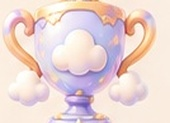
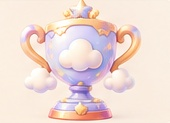
Add files via upload

diff --git a/homologacao/rc266-trofeus-sem-crop.js b/homologacao/rc266-trofeus-sem-crop.js
@@ -1,0 +1,30 @@
+/* BERTH.A RC266 — only Trophy/Super Trophy fit correction */
+(function(){
+ if(document.getElementById('rc266-trophy-fit')) return;
+ const s=document.createElement('style'); s.id='rc266-trophy-fit';
+ s.textContent=`
+ .rc258-trail .r197-step:nth-child(4),
+ .rc258-trail .r197-step:nth-child(5){
+   min-width:0!important; overflow:visible!important;
+ }
+ .rc258-trail .r197-step:nth-child(4) .rc258-reward-art,
+ .rc258-trail .r197-step:nth-child(5) .rc258-reward-art{
+   width:100%!important; max-width:88px!important; aspect-ratio:1/1!important;
+   margin:0 auto 6px!important; overflow:hidden!important;
+   transform:none!important; position:static!important;
+   box-sizing:border-box!important; border-radius:15px!important;
+ }
+ .rc258-trail .r197-step:nth-child(4) .rc258-reward-art img,
+ .rc258-trail .r197-step:nth-child(5) .rc258-reward-art img{
+   display:block!important; width:100%!important; height:100%!important;
+   max-width:100%!important; max-height:100%!important;
+   object-fit:contain!important; object-position:center center!important;
+   transform:none!important; margin:0!important; padding:0!important;
+   position:static!important;
+ }
+ @media(max-width:390px){
+  .rc258-trail .r197-step:nth-child(4) .rc258-reward-art,
+  .rc258-trail .r197-step:nth-child(5) .rc258-reward-art{max-width:76px!important}
+ }`;
+ document.head.appendChild(s);
+})();

diff --git a/homologacao/index.html b/homologacao/index.html
@@ -623,7 +623,8 @@ body.bertha-hml::before{content:"HOMOLOGAÇÃO";position:fixed;z-index:99999;top
 
 <script src="rc240-kids-accessories-normalize.js?v=240"></script>
 <script src="rc253-kids-accessories-scale.js?v=253"></script>
-<script src="rc239-runtime-clean.js?v=239"></script>
+<script src="rc266-trofeus-sem-crop.js?v=266"></script>
+  <script src="rc239-runtime-clean.js?v=239"></script>
 
 </body>
 </html>
